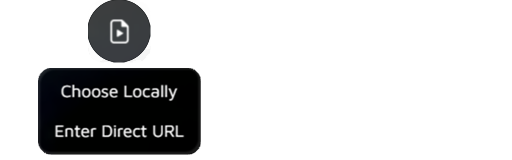
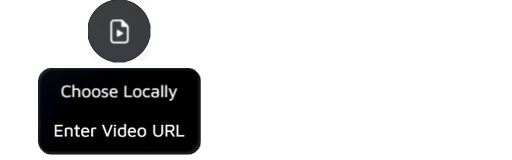
Latest version update (YouTube streaming support)

Changed region(s): [[0.0938, 0.75, 0.375, 0.875]]

diff --git a/docs/guides/video-player-usage.md b/docs/guides/video-player-usage.md
@@ -26,10 +26,10 @@ This causes the player to freeze in a black screen, and play the video's audio i
 Unfortunately, there is currently <u>no fix</u> for that. If your device seems to have this problem, you need to load up `x264` *(MPEG)* instead.
 :::
 
-### Loading from direct URL
+### Loading from a video URL
 ---
 
-If you have a link that directly shows / downloads the video upon opening, you can choose this option and fill in the prompt to try and stream the video online.
+If you have a link that directly shows / downloads the video upon opening, or is <u>a YouTube video link</u>, you can choose this option and fill in the prompt to try and stream the video online.
 
 Using this method adds a little bit of overhead and might cause minor setbacks on an old device. This is because the network always has to send requests to fetch the URL as a `Partial Response`.
 
@@ -37,6 +37,10 @@ Using this method adds a little bit of overhead and might cause minor setbacks o
 Some servers do not allow `Partial Response` requests and therefore a video stream cannot happen in the player.
 
 In that case, you'll need to either wait for the whole video to get downloaded, or choose another server that supports that feature.
+:::
+
+:::caution
+YouTube video streaming uses YouTube IFrame API, and tracks your activity (view counts, watch history, etc.).
 :::
 
 ## Loading subtitles

diff --git a/docs/intro.md b/docs/intro.md
@@ -62,9 +62,9 @@ Sometimes, a user is just trying to make you rage. You can block anyone to stop 
 
 No upload & no wasted bandwidth. If your video is already in your storage, you can just use that.
 
-### Play video from a direct URL
+### Play video from a direct URL, or YouTube
 
-If you have a direct URL that points to a supported video, you can import it and stream the video as you watch it.
+If you have a direct URL that points to a supported video, or a YouTube video link, you can import it and stream the video as you watch it.
 
 The player is designed to download only the parts that are relevant and not the entire video. This helps save bandwidth way more than you can imagine.
 
@@ -72,6 +72,10 @@ The player is designed to download only the parts that are relevant and not the 
 Video player sources *(local or URL)* are **not synced**. This is intentionally designed that way so each user can load their own version of a video.
 
 For example, one client can load a video with `1080p` quality and another can choose to load the `720p` one. The time and state will be synced no matter the user's loaded video.
+:::
+
+:::caution
+YouTube video streaming uses YouTube IFrame API, and tracks your activity (view counts, watch history, etc.).
 :::
 
 ### Full `.srt` subtitle support

diff --git a/docs/guides/sections-correlation.md b/docs/guides/sections-correlation.md
@@ -29,15 +29,15 @@ flowchart TD
 
         Container_A(["Container"])
 
-        Chat_A(["💬 Chat iframe"])
-        Video_A(["🎥 Video iframe"])
+        Chat_A(["💬 Chat IFrame"])
+        Video_A(["🎥 Video IFrame"])
 
         Container_A --> Chat_A
         Container_A --> Video_A
     end
 
     subgraph Client_B["Client B - Chat only"]
-        Chat_B(["💬 Chat iframe"])
+        Chat_B(["💬 Chat IFrame"])
     end
 
     subgraph Client_C["Client C - Separate tabs"]
@@ -77,7 +77,7 @@ flowchart TD
 ### The figure above shows the basic interaction set between `Chat` and `Video` sections, for each client.
 
 :::caution
-When in iframe mode (both section in one page), the sections communicate with `SendMessage`.
+When in IFrame mode (both section in one page), the sections communicate with `SendMessage`.
 
 Some functionalities might break when `Video` section is missing a sibling `Chat` section.
 :::
